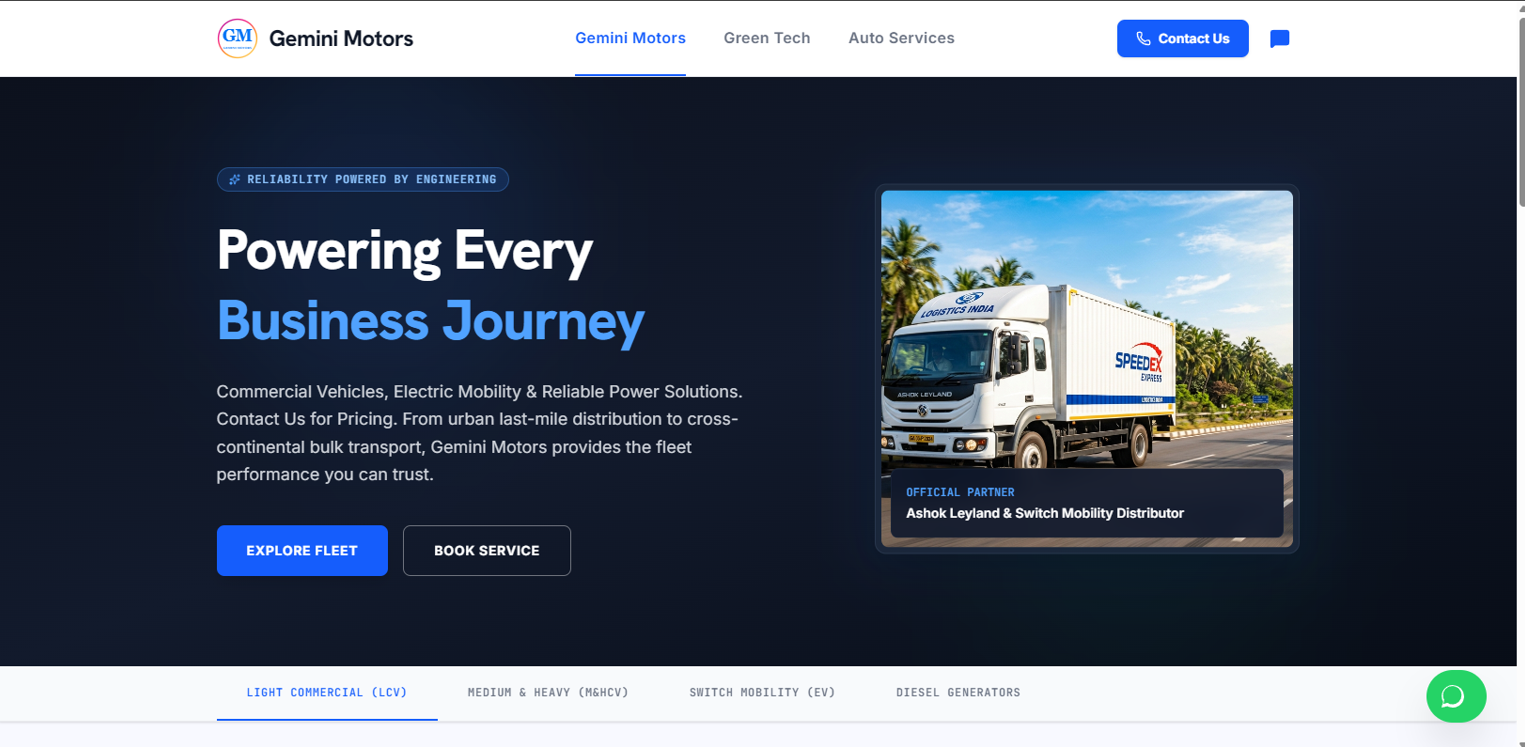
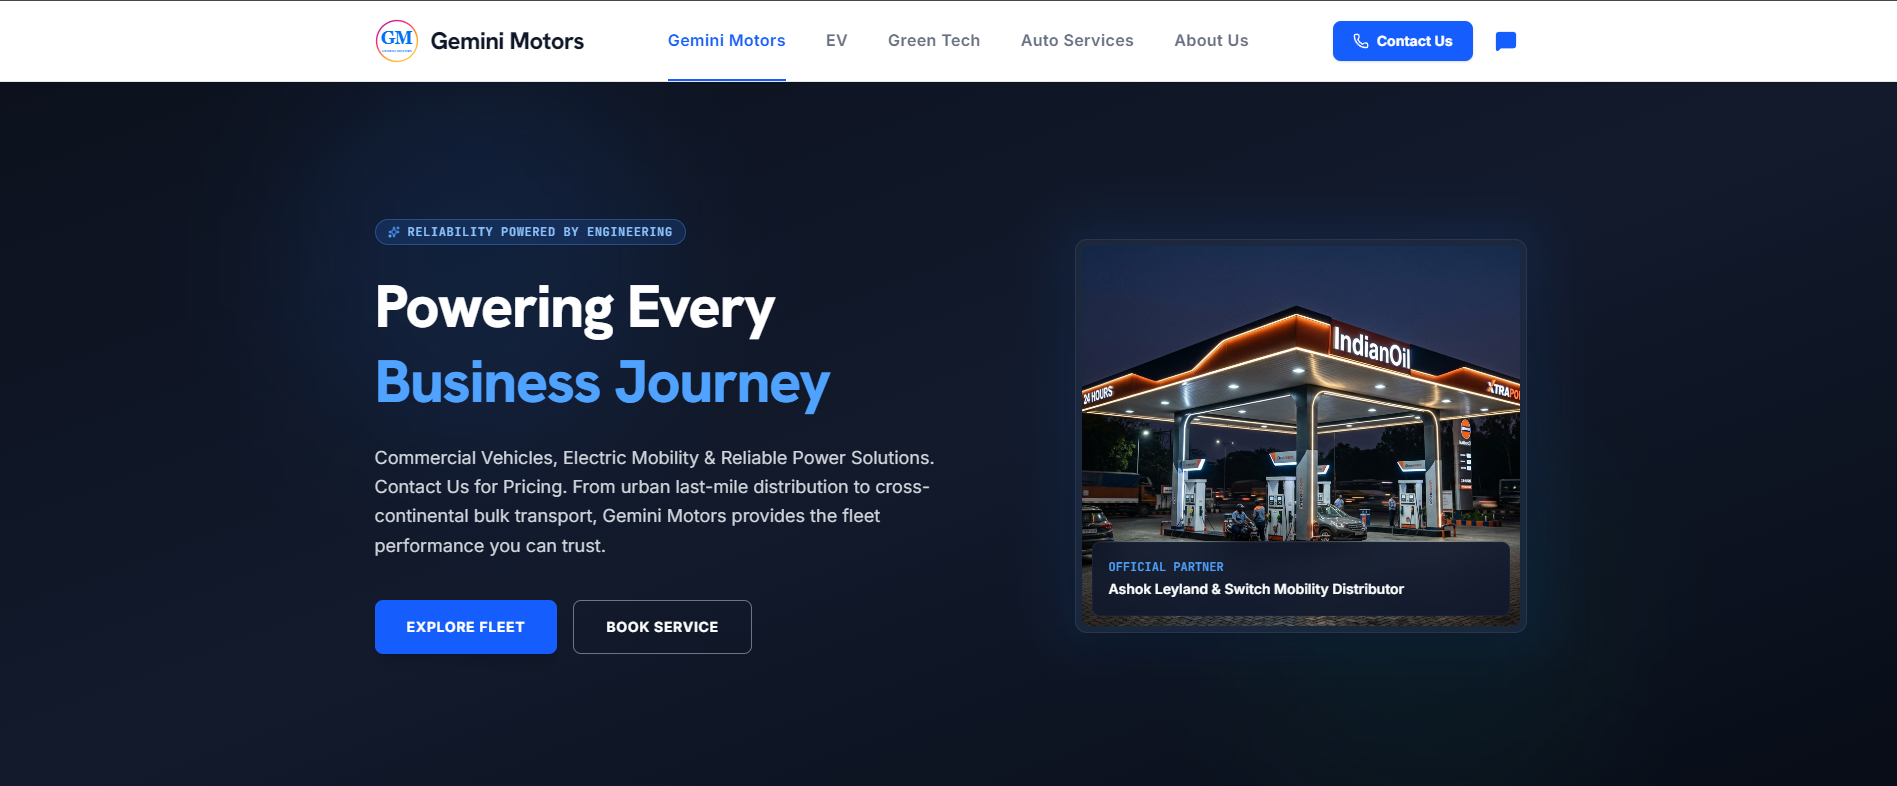
Add Gemini Motors client project to portfolio

diff --git a/src/components/Projects.jsx b/src/components/Projects.jsx
@@ -32,10 +32,10 @@ const projects = [
 },
 {
   title: "Gemini Motors",
+  category: "Client Project",
   image: geminimotors,
-  category: "Commercial Vehicle & Logistics Website",
   description:
-    "A premium corporate website developed for a commercial vehicle and logistics company. Features an elegant UI, fleet showcase, vehicle categories, responsive layouts, contact forms, business information, and a modern user experience focused on customer engagement.",
+    "Developed a premium, responsive website for Gemini Motors, an authorized Ashok Leyland dealer in Goa. Built with React, TypeScript, Vite, and Tailwind CSS, featuring modern UI, smooth animations, reusable components, and optimized performance for an engaging user experience.",
   tech: [
     "React",
     "TypeScript",
@@ -43,9 +43,17 @@ const projects = [
     "Tailwind CSS",
     "Framer Motion"
   ],
-  live: "https://YOUR-GEMINI-MOTORS.vercel.app",
-  github: "https://github.com/rajkumar-dev04/gemini-motors",
-  featured: true,
+  features: [
+    "Responsive Design",
+    "Modern UI/UX",
+    "Smooth Animations",
+    "Vehicle Showcase",
+    "Fuel Solutions",
+    "SEO Friendly",
+    "Performance Optimized"
+  ],
+  live: "https://gemini-motors.vercel.app",
+  github: "https://github.com/rajkumar-dev04/GEMINI_MOTORS"
 },
   {
     title: "Elorra Beauty Co.",